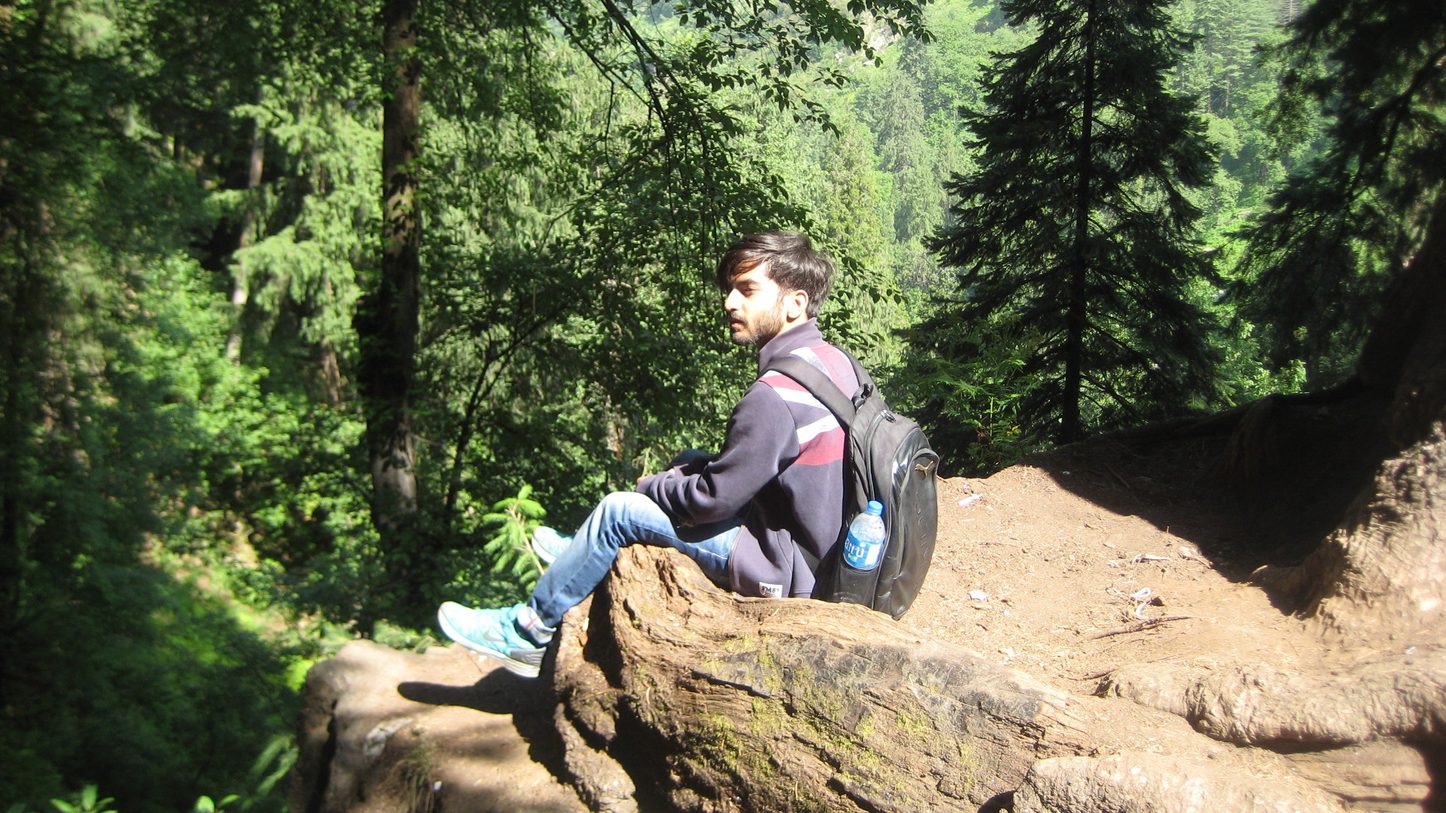
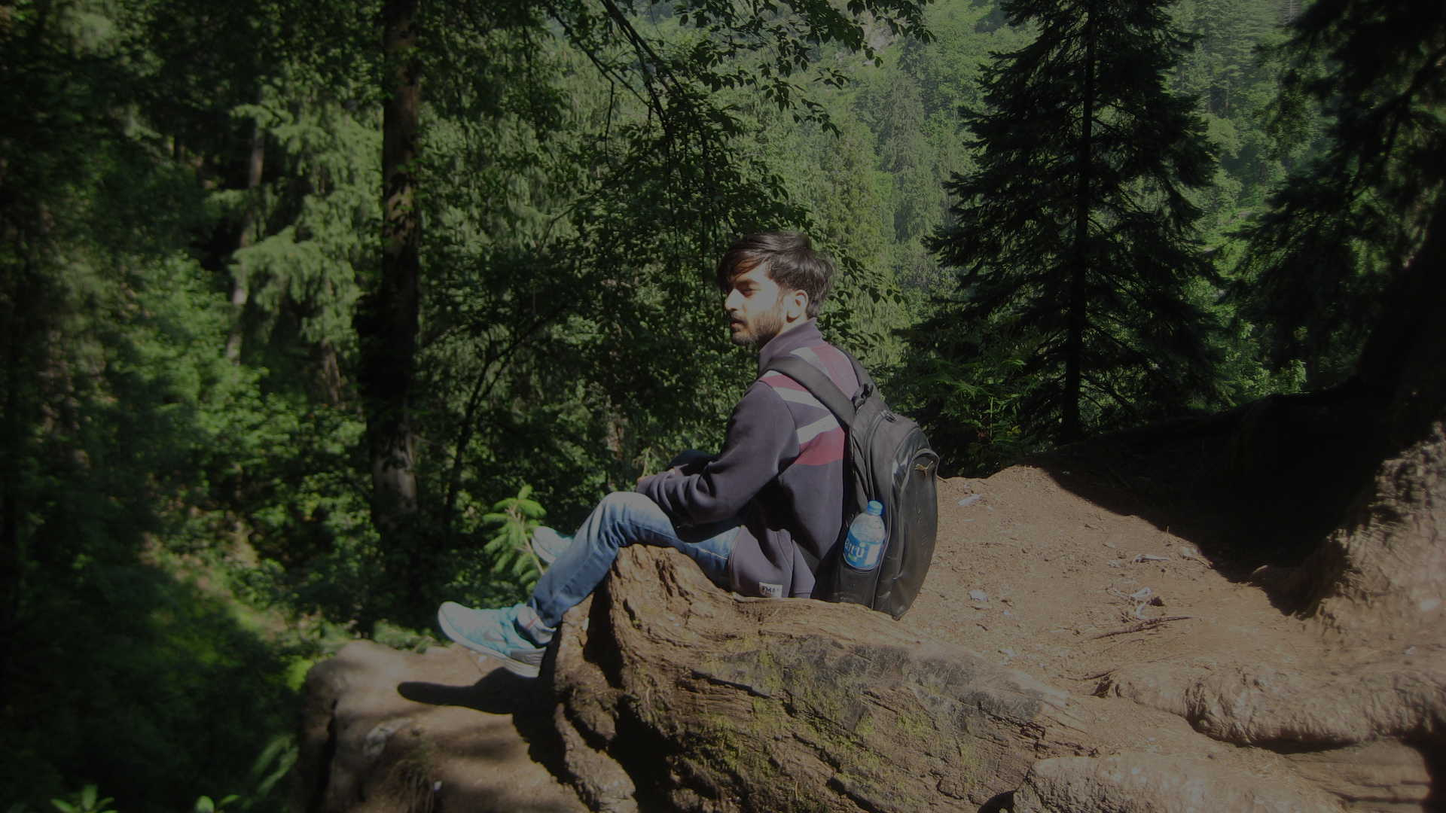
0.2
✔ Decrease opacity to 0.5
✔ Remove box-shadow
✔ Scrolling effect to nav links
✔ Home parallax image replaced with modified image to remove dependency
on opacity & bg color (set opacity back to 1).
✔ Clean css using navbar id instead of class structure

Basic wireframe:
  Homepage aka Bio
     ✔ Parllax1
     ✔ Quote box
     ✔ Bio
  Portfolio
     ✔ 3 - 2 - 3.. grid style
     ✔ Temporarily added a few portfolio items
  ✔ Tab functionality for nav links
     ✔ Smooth transitions
     ✔ Top margin for all other content (projects, journal..) except
bio with parallax.
     ✔ Removed top margin and set navbar to static positioning.

✔ Reset navbar to static positioning (to avoid many bugs) and give home
content negative top margin instead.
✔ Changed navbar padding to margin
✔ Workaround for navbar opening and content moving downwards on small
screens while on home page.
✔ Moved navbar to absolute positioning so that it overlaps the content
instead of pushing it down.
✔ Set z-index of navbar to 1 so that it appears above everything.
✔ Changed navbar back to padding due to bug on full width.
✔ Removed top margin for home as it isn't necessary anymore.
✔ Top margin for all other content except home, using below-navbar
class.

diff --git a/index.html b/index.html
@@ -28,54 +28,109 @@
 
   <body>
 
-    <!-- Homepage parallax1 with navbar and text -->
-    <div class="parallax1">
-
-      <!--Parallax Image-->
-      <div class="parallax1-image"></div>
-
-      <!-- Navbar -->
-      <nav class="navbar navbar-default">
-        <div class="container-fluid">
-          <!-- Navbar Header on left -->
-          <div class="navbar-header">
-            <button type="button" class="navbar-toggle" data-toggle="collapse" data-target="#mainNavbar">
-              <span class="icon-bar"></span>
-              <span class="icon-bar"></span>
-              <span class="icon-bar"></span>
-            </button>
-            <a href="#" class="navbar-brand">nikhil jolly</a>
-          </div>
-          <!-- Collapsable navbar -->
-          <div class="collapse navbar-collapse" id="mainNavbar">
-            <!-- Navbar right -->
-            <ul class="nav navbar-nav navbar-right">
-              <li><a href="#">bio</a></li>
-              <li><a href="#">projects</a></li>
-              <li><a href="#">journal</a></li>
-            </ul>
-          </div>
-          <!-- Collapsabe navbar -->
+    <!-- Navbar -->
+    <nav class="navbar navbar-default" id="myNavbar">
+      <div class="container-fluid">
+        <!-- Navbar Header on left -->
+        <div class="navbar-header">
+          <button type="button" class="navbar-toggle" data-toggle="collapse" data-target="#mainNavbar">
+            <span class="icon-bar"></span>
+            <span class="icon-bar"></span>
+            <span class="icon-bar"></span>
+          </button>
+          <a href="" class="navbar-brand">nikhil jolly</a>
         </div>
-      </nav>
+        <!-- Collapsable navbar -->
+        <div class="collapse navbar-collapse" id="mainNavbar">
+          <!-- Navbar right -->
+          <ul class="nav navbar-nav navbar-right">
+            <li class="active"><a data-toggle="tab" href="#home">bio</a></li>
+            <li><a data-toggle="tab" href="#projects">projects</a></li>
+            <li><a data-toggle="tab" href="#journal">journal</a></li>
+          </ul>
+        </div>
+        <!-- Collapsabe navbar -->
+      </div>
+    </nav>
 
-      <!-- Heading -->
-      <h1>Nikhil Jolly</h1>
+    <!-- Used for tabs in navbar -->
+    <div class="tab-content">
 
-    </div>
+      <!-- Homepage: parallax and bio -->
+      <div class="tab-pane fade in active" id="home">
 
-    <!-- Bio -->
-    <div class="container-fluid" id="bio">
-      <p class="text-justify">
-        Hi! I'm Nikhil Jolly, a game designer and programmer from India.
-        I aspire to be a renaissance man and am usually found juggling
-        between numereous things that I like to do.</br></br>
-        On a casual day, I spend my time developing games as a freelancer,
-        working on my personal projects and improving my art & composition skills.
-        And ocassionally, I tend to tinker with new things and explore new places.</br></br>
-        More often than not, I spend a lot of time thinking about stuff,
-        listening to music, reading stuff online and improving myself.
-      </p>
+        <!-- Parralax, header text container -->
+        <div class="parallax-container">
+          <!--Parallax Image-->
+          <div class="parallax-image"></div>
+          <!-- Heading -->
+          <h1>Nikhil Jolly</h1>
+        </div>
+
+        <!-- Bio -->
+        <div class="container-fluid" id="bio">
+          <blockquote>
+            <p>Pain is inexhaustible. It’s only people who get exhausted.</p>
+            <footer>Ray Velcoro in <cite>True Detective</cite></footer>
+          </blockquote>
+          <p class="text-justify">
+            Hi! I'm Nikhil Jolly, a game designer and programmer from India.
+            I aspire to be a renaissance man and am usually found juggling
+            between numereous things that I like to do.</br></br>
+            On a casual day, I spend my time developing games as a freelancer,
+            working on my personal projects and improving my art & composition skills.
+            And ocassionally, I tend to tinker with new things and explore new places.</br></br>
+            More often than not, I spend a lot of time thinking,
+            listening to music, reading online and improving myself.
+          </p>
+        </div>
+
+      </div> <!-- Homepage end -->
+
+      <!-- Projects -->
+      <div class="tab-pane fade below-navbar" id="projects">
+        <div class="container-fluid">
+            <h1 class="section-title">Projects</h1>
+
+
+            <!-- 1st row: Two columns -->
+            <div class="row">
+              <!-- Mirrors -->
+              <div class="col-sm-6 portfolio_item" id="mirrors">
+                <img class="img-responsive" src="assets/images/mirrors/cover.jpg" alt="Mirrors"/>
+              </div>
+              <!-- Pizza Craft -->
+              <div class="col-sm-6 portfolio_item">
+                <img class="img-responsive" src="assets/images/pizzacraft/cover.jpg" alt="Pizza Craft"/>
+              </div>
+            </div>
+
+            <!-- 2nd row: Three columns -->
+            <div class="row">
+              <!-- Crazy Jumper -->
+              <div class="col-sm-4 portfolio_item">
+                <img class="img-responsive" src="assets/images/crazyjumper/cover.jpg" alt="Crazy Jumper"/>
+              </div>
+              <!-- Adventure Island -->
+              <div class="col-sm-4 portfolio_item">
+                <img class="img-responsive" src="assets/images/3disland/cover.jpg" alt="Adventure Island"/>
+              </div>
+              <!-- Domination -->
+              <div class="col-sm-4 portfolio_item">
+                <img class="img-responsive" src="assets/images/domination/cover.jpg" alt="Domination"/>
+              </div>
+            </div>
+
+        </div>
+      </div>
+
+      <!-- Journal -->
+      <div class="tab-pane fade below-navbar" id="journal" >
+          <div class="container-fluid">
+              <h1 class="section-title">Journal</h1>
+          </div>
+      </div>
+
     </div>
 
     <!-- jQuery (necessary for Bootstrap's JavaScript plugins) -->
@@ -84,5 +139,8 @@
     <!-- Latest compiled and minified JavaScript -->
     <script src="https://maxcdn.bootstrapcdn.com/bootstrap/3.3.7/js/bootstrap.min.js"
     integrity="sha384-Tc5IQib027qvyjSMfHjOMaLkfuWVxZxUPnCJA7l2mCWNIpG9mGCD8wGNIcPD7Txa" crossorigin="anonymous"></script>
+    <!-- Custom JavaScript -->
+    <script src="assets/js/scroll.js"></script>
+
   </body>
 </html>

diff --git a/assets/css/style.css b/assets/css/style.css
@@ -1,12 +1,66 @@
 body{
-  background-color: black; /*Helps in properly showing the parallax1-image with opacity 0.5*/
+  background-color: #222;
 }
-/*Homepage Parallax 1*/
-.parallax1{
+
+/* Section Title */
+.section-title{
+  color: white;
+  text-align: center;
+  padding: 20px;
+}
+/* Section classes */
+.below-navbar{
+  margin-top: 134px;
+}
+
+/*Home Navbar */
+#myNavbar{
+  /*Postioning*/
+  position: absolute; /* So that collapsed nav overlaps everything instead of pushing it down */
+  top: 0;
+  width: 100%;
+  z-index: 1; /* To show it above all other content */
+
+  /* Styling */
+  background-color: transparent;
+  border-color: transparent;
+  padding: 40px;
+  font-size: 18px;
+}
+#myNavbar .navbar-toggle{  /* Navbar toggle */
+  border-color: white;
+  border-width: 2px;
+}
+#myNavbar .navbar-toggle:hover{  /* Navbar toggle hover */
+  background-color: black;
+}
+#myNavbar .icon-bar{  /* Navbar toggle icon bars */
+  background-color: white;
+}
+#myNavbar a{  /* Navbar links */
+  color: white;
+  border: 1px solid transparent; /* To avoid jerk on hover */
+  background-color: transparent;
+}
+#myNavbar a:hover, #myNavbar a:focus{  /* Navbar links hover, focus & active class */
+  color: #428bca;
+  border: 1px solid #428bca;
+  background-color: transparent;
+}
+#myNavbar .navbar-brand{ /* Navbar brand/title */
+  font-size: 20px;
+}
+#myNavbar .navbar-form, #myNavbar .navbar-collapse{  /* Navbar form/collapse border */
+  border-color: white;
+  border-width: 2px;
+}
+
+/*Home Parallax Container*/
+#home .parallax-container{
   /*Height set to screen height*/
   height: 100vh;
 }
-.parallax1-image{ /* Parallax1 Image */
+#home .parallax-image{ /* Home Parallax Image */
   /*Position*/
   position: absolute;
   z-index: -1;
@@ -14,54 +68,16 @@ body{
   background-image: url('../images/main_bg.jpg');
   /*Width & Height*/
   width: 100%;
-  height: inherit;
+  height: 100%;
   /*Parallax effect*/
   background-attachment: fixed;
   background-position: center;
   background-repeat: no-repeat;
   background-size: cover;
-  /*Other effects*/
-  opacity: 0.65;
-  box-shadow: 0px 0px 100px 20px black inset;
 }
-/*Homepage Navbar */
-.parallax1 .navbar{  /* Navbar styling */
-  background-color: transparent;
-  border-color: transparent;
-  padding: 40px;
-  font-size: 18px;
-}
-.parallax1 .navbar-toggle{  /* Navbar toggle */
-  border-color: #c8ddff;
-  border-width: 2px;
-}
-.parallax1 .navbar-toggle:hover{  /* Navbar toggle hover */
-  background-color: black;
-}
-.parallax1 .navbar-toggle .icon-bar{  /* Navbar toggle icon bars */
-  background-color: #c8ddff;
-}
-.parallax1 .navbar li a{  /* Navbar links */
-  color: #c8ddff;
-}
-.parallax1 .navbar li a:hover, .parallax1 .navbar li a:focus{  /* Navbar links hover & focus */
-  color: black;
-  background-color: whitesmoke;
-}
-.parallax1 .navbar-brand{ /* Navbar brand/title */
-  color: #c8ddff;
-  font-size: 20px;
-}
-.parallax1 .navbar-brand:hover, .parallax1 .navbar-brand:focus{  /* Navbar links hover & focus */
-  color: black;
-  background-color: whitesmoke;
-}
-.parallax1 .navbar-form, .parallax1 .navbar-collapse{  /* Navbar form/collapse border */
-  border-color: #c8ddff;
-  border-width: 2px;
-}
-/* Heading */
-.parallax1 h1{
+
+/* Home Heading */
+#home .parallax-container h1{
   /*Position*/
   position: absolute;
   bottom: 20px;
@@ -71,28 +87,49 @@ body{
   /*Styling*/
   font-family: 'Lobster',cursive;
   font-size: 50px;
-  color: #c8ddff;
-}
-/*Homepage Bio*/
-#bio{
-  background-color: #c8ddff;
-  font-family: 'Source Sans Pro', sans-serif;
-  font-size: 20px;
-}
-#bio p{
-  margin: 0;
-  padding: 5%;
+  color: white;
 }
 
-/*Mobile first approach*/
-/*For screens larger than 768px*/
+/* Home Bio */
+#bio{
+  background-color: white;
+  font-family: 'Source Sans Pro', sans-serif;
+  font-size: 20px;
+  padding: 5%;
+  text-align: center;
+}
+/* Bio Quotes */
+#bio blockquote{
+  font-size: 20px;
+}
+
+/* Projects */
+.portfolio_item{
+  margin-bottom: 25px;  /* Used to add gap when screen is small in size */
+}
+
+/* Mobile first approach */
+/* For screens larger than 768px */
 @media (min-width: 768px) {
   /* Heading */
-  .parallax1 h1{
+  #home .parallax-container h1{
     font-size:110px;
   }
   /*Bio text*/
   #bio{
     font-size: 22px;
+  }
+  /*Bio Quotes*/
+  #bio blockquote{
+    font-size: 22px;
+  }
+  /* Make row thing it is a table when screen is big */
+  .row {
+    display: table;
+  }
+  [class*="col-"] {
+    float: none;
+    display: table-cell;
+    vertical-align: middle;;
   }
 }

diff --git a/assets/js/scroll.js b/assets/js/scroll.js
@@ -1,0 +1,6 @@
+$(document).ready(function(){
+	$('a[href^="#"]').on('click',function (e) {
+	    e.preventDefault();
+      $('html,body').animate({scrollTop:$(this.hash).offset().top}, 500);
+	});
+});
